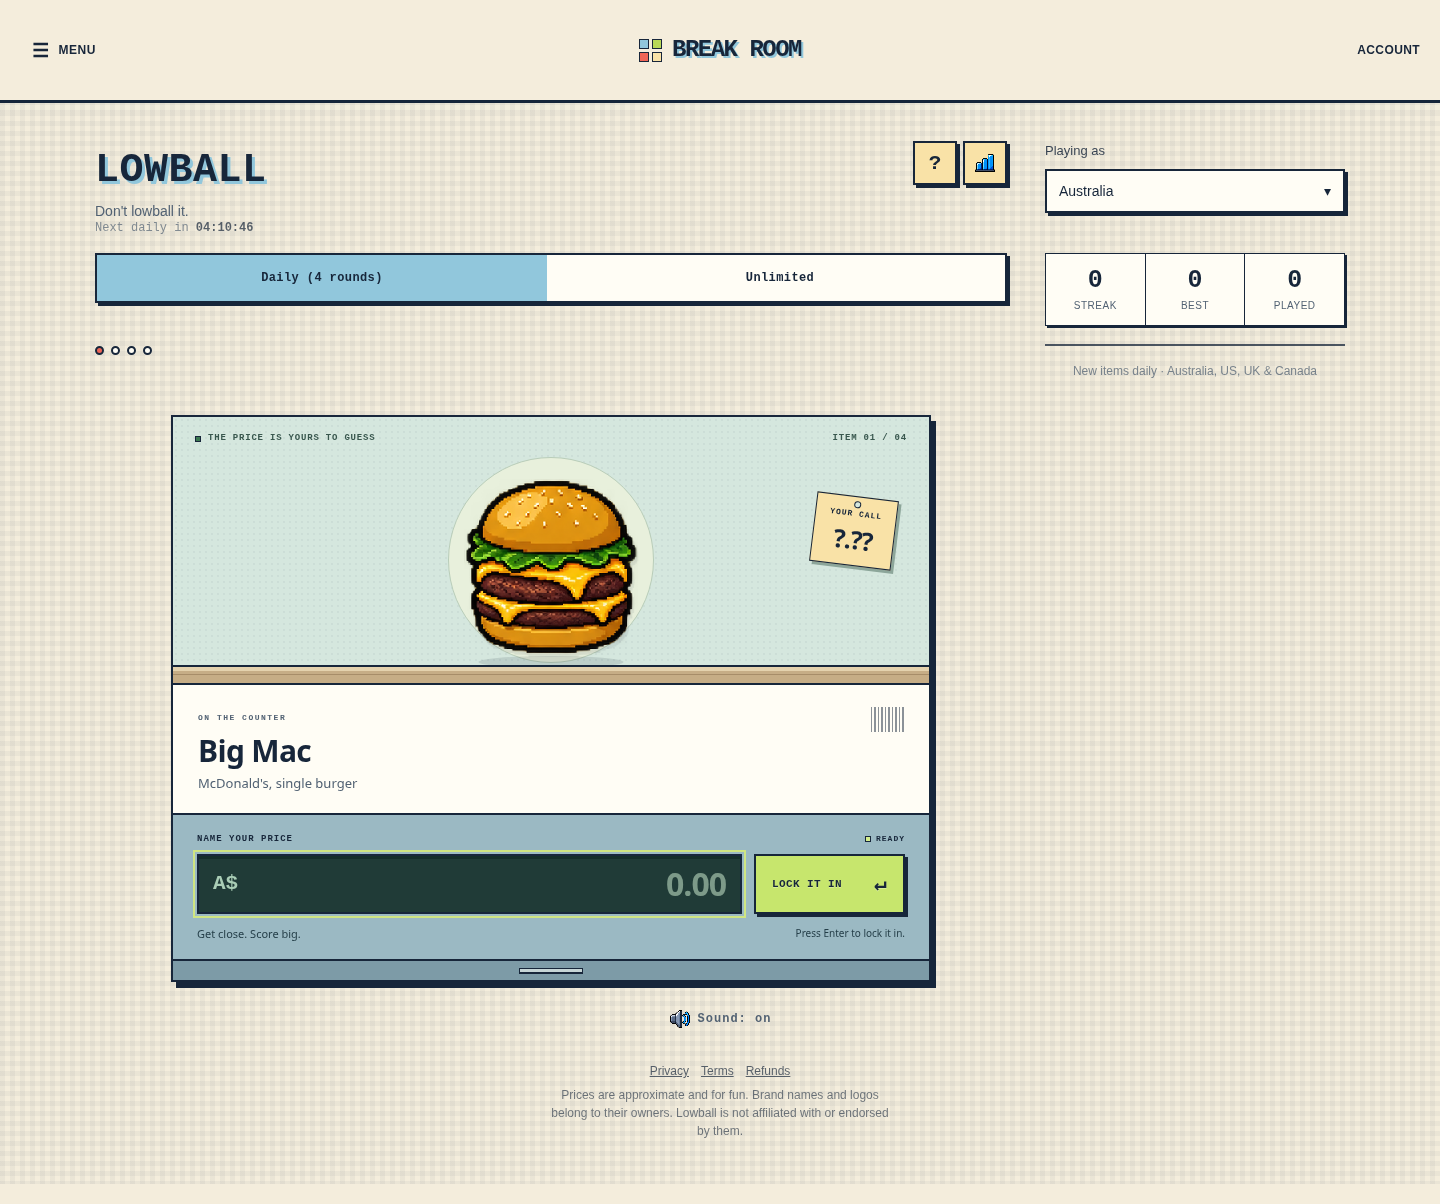
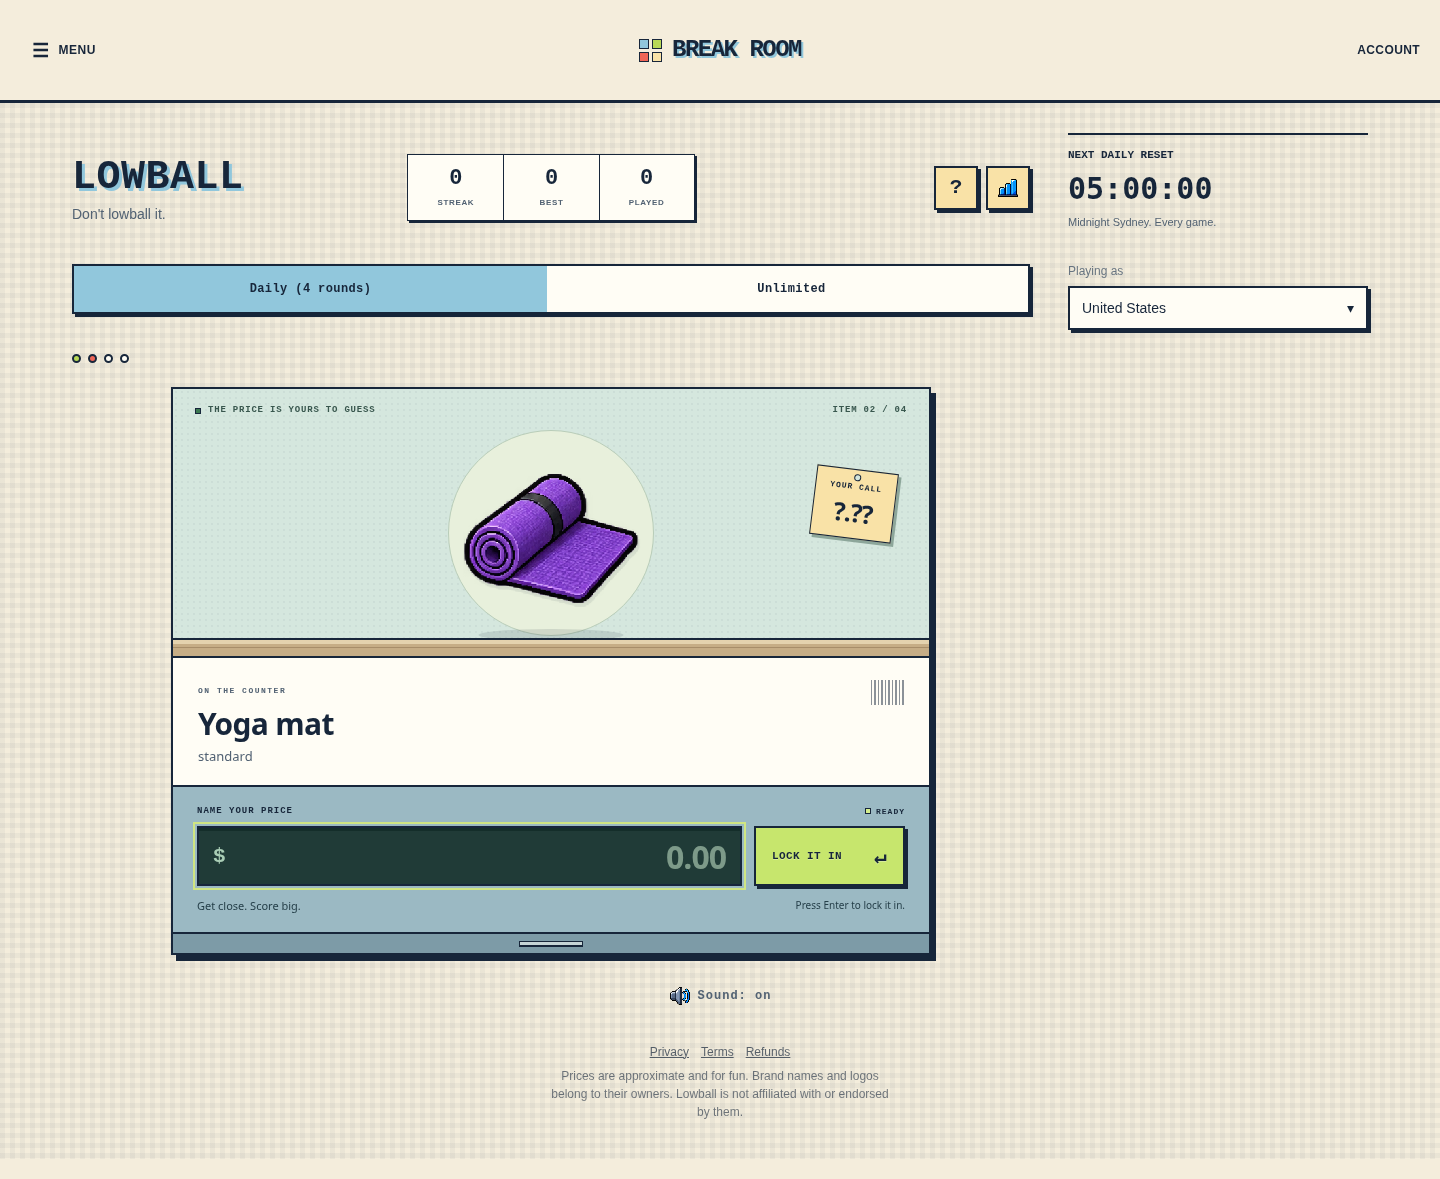
Align Lowball header and countdown with Stake and place region below reset

diff --git a/games/lowball/engine/counter.css b/games/lowball/engine/counter.css
@@ -23,3 +23,17 @@ body{padding-top:30px}.wrap{gap:18px 38px}.sub{font-size:14px}.mode-toggle{box-s
 .result.show,.final-screen.show{width:100%}
 .progress-dots .deck-count{font:700 10px/1.5 var(--label-font);letter-spacing:1px;color:#526273}
 #finalScreen .btn-gold,#finalScreen .btn-outline{display:block;width:100%;min-height:46px;margin:12px 0 0;padding:12px 16px;font:700 11px var(--label-font)}
+/* Match Stake: title / centred personal stats / tools, with reset and region on the right. */
+body{padding:30px 32px}.wrap{max-width:1296px;gap:22px 38px}
+header{display:grid;grid-template-columns:minmax(0,1fr) minmax(144px,30%) minmax(0,1fr);gap:12px;align-items:center;width:100%}
+.lowball-title-group{grid-column:1;grid-row:1;min-width:0}header h1{margin:0;line-height:1.2}.lowball-title-group .sub{margin-top:4px}
+header .head-btns{grid-column:3;grid-row:1;position:static;float:none;justify-self:end;display:flex;gap:8px}
+header .stat-strip{grid-column:2;grid-row:1;display:grid!important;grid-template-columns:repeat(3,minmax(0,1fr));align-self:center;gap:0;width:100%;margin:0;background:#fffdf5;border:1px solid #17263a;box-shadow:2px 2px #17263a}
+header .stat-strip .stat{padding:12px 4px;border:0;box-shadow:none;background:none;border-radius:0;min-width:0}header .stat-strip .stat+.stat{border-left:1px solid #17263a}header .stat-strip .stat b{font:900 22px/1.1 'Courier New',monospace}header .stat-strip .stat span{font:800 8px/1.4 Arial,sans-serif;text-transform:uppercase;letter-spacing:.08em;margin-top:5px}
+.live-reset{grid-column:2;grid-row:1;align-self:start;background:none;border:0;border-top:2px solid #17263a;box-shadow:none;padding:14px 0;font:800 11px 'Courier New',monospace;color:#17263a;text-align:left}
+.live-reset strong{display:block;font-family:ui-monospace,monospace;font-size:30px;font-weight:900;line-height:normal;letter-spacing:normal;margin:10px 0;color:#17263a}.live-reset p{font:11px Arial,sans-serif;color:#526273;margin:0}.live-reset .new-daily-ready{display:block;font:700 11px/1.6 Arial,sans-serif;text-decoration:underline;margin-top:10px}.live-reset .new-daily-ready[hidden]{display:none}.live-reset.ready{cursor:pointer}
+.country-row{grid-column:2;grid-row:2;flex-direction:column;align-items:stretch;justify-content:flex-start;gap:8px;margin:0;font:12px Arial,sans-serif;align-self:start}.country-label{color:#526273}.cselect-btn{font-size:14px;padding:12px}
+@media(min-width:651px) and (max-width:900px){.wrap{display:grid;grid-template-columns:minmax(0,1fr) 220px;gap:20px}.country-row{flex-direction:column;align-items:stretch}.lowball-title-group h1{font-size:30px}.lowball-title-group .sub{font-size:12px}}
+@media(max-width:900px){header .stat-strip .stat{padding:10px 3px}header .stat-strip .stat b{font-size:20px}header .stat-strip .stat span{font-size:7px;letter-spacing:.03em}}
+@media(max-width:650px){body{padding:24px 16px}.wrap{display:flex;gap:19px}header{order:0;grid-template-columns:minmax(0,1fr) 144px minmax(0,1fr);gap:8px}.lowball-title-group h1{font-size:21px}.lowball-title-group .sub{display:none}header .head-btns{gap:6px}header .icon-btn{width:36px;height:36px}header .stat-strip .stat b{font-size:19px}.mode-toggle{order:1}.progress-dots{order:2}.card{order:3}.live-reset{order:4;align-self:stretch;display:flex;flex-wrap:wrap;align-items:center;gap:4px 12px}.live-reset strong{display:inline-block;font-size:22px;margin:0}.live-reset p{flex-basis:100%;margin:5px 0 0}.live-reset .new-daily-ready{flex-basis:100%;margin-top:5px}.country-row{order:5;align-self:stretch;flex-direction:column;align-items:stretch;font-size:12px}.sound-btn{order:6}.legal-footer{order:7}}
+@media(max-width:360px){body{padding-left:12px;padding-right:12px}header{grid-template-columns:minmax(0,1fr) 124px minmax(0,1fr)}.lowball-title-group h1{font-size:17px}header .icon-btn{width:32px;height:34px;font-size:17px}header .head-btns{gap:4px}header .stat-strip .stat{padding:9px 2px}header .stat-strip .stat b{font-size:18px}header .stat-strip .stat span{font-size:6px}}

diff --git a/games/lowball/engine/index.html b/games/lowball/engine/index.html
@@ -595,19 +595,25 @@
 <body>
 <div class="wrap">
   <header>
+    <div class="lowball-title-group"><h1>LOWBALL</h1><div class="sub">Don't lowball it.</div></div>
+  <div class="stat-strip" id="statStrip">
+    <div class="stat"><b id="streakVal">0</b><span>Streak</span></div>
+    <div class="stat"><b id="bestVal">0</b><span>Best</span></div>
+    <div class="stat"><b id="playedVal">0</b><span>Played</span></div>
+  </div>
     <div class="head-btns">
       <button type="button" class="icon-btn" id="helpBtn" aria-label="How to play">?</button>
       <button type="button" class="icon-btn" id="statsBtn" aria-label="Your stats"><span id="statsArt"></span></button>
     </div>
-    <h1>LOWBALL</h1>
-    <div class="sub">Don't lowball it.</div>
-    <div class="next-daily" id="nextDaily">Next daily in --:--:--</div>
+
   </header>
 
   <div class="mode-toggle">
     <button class="mode-btn active" id="normalModeBtn">Daily<span class="rounds"> (4 rounds)</span></button>
     <button class="mode-btn" id="unlimitedModeBtn">Unlimited</button>
   </div>
+
+  <aside class="live-reset" id="nextDaily" aria-label="Daily reset">NEXT DAILY RESET<strong data-daily-countdown>--:--:--</strong><p>Midnight Sydney. Every game.</p><span class="new-daily-ready" hidden>New daily ready. Tap to play</span></aside>
 
   <div class="country-row">
     <span class="country-label">Playing as</span>
@@ -618,12 +624,7 @@
     <select id="countrySelect" hidden></select>
   </div>
 
-  <div class="stat-strip" id="statStrip">
-    <div class="stat"><b id="streakVal">0</b><span>Streak</span></div>
-    <div class="stat"><b id="bestVal">0</b><span>Best</span></div>
-    <div class="stat"><b id="playedVal">0</b><span>Played</span></div>
-  </div>
-  <footer class="tagline">New items daily &middot; Australia, US, UK &amp; Canada</footer>
+
 
   <div class="progress-dots" id="progressDots"></div>
 
@@ -1491,11 +1492,12 @@ function tickNextDaily() {
       el.classList.add("ready");
       el.setAttribute("role", "button");
       el.tabIndex = 0;
-      el.textContent = "New daily ready. Tap to play";
+      el.setAttribute("aria-label", "New daily ready. Tap to play");
+      el.querySelector(".new-daily-ready").hidden = false;
     }
     return;
   }
-  el.innerHTML = "Next daily in <b>" + window.MIDNIGHT_ARCADE_CLOCK.countdown() + "</b>";
+  el.querySelector("[data-daily-countdown]").textContent = window.MIDNIGHT_ARCADE_CLOCK.countdown();
 }
 document.getElementById("nextDaily").addEventListener("click", function () { if (this.classList.contains("ready")) location.reload(); });
 document.getElementById("nextDaily").addEventListener("keydown", function (e) { if ((e.key === "Enter" || e.key === " ") && this.classList.contains("ready")) { e.preventDefault(); location.reload(); } });

diff --git a/games/lowball/index.html b/games/lowball/index.html
@@ -8,10 +8,10 @@
 <link rel="icon" type="image/svg+xml" href="../../assets/break-room-icon.svg">
 <link rel="stylesheet" href="../../styles.css"><link rel="stylesheet" href="../../game-flow.css">
 <style>
-.lowball-main{position:relative;z-index:30;padding:8px 0 20px;min-height:calc(100vh - 110px);background:#100a2e}
+.lowball-main{position:relative;z-index:30;padding:0 0 20px;min-height:calc(100vh - 110px);background:#100a2e}
 .lowball-shell{width:100%;max-width:none;margin:0 auto}
 .lowball-frame{display:block;width:100%;height:1180px;border:0;background:#100a2e;box-shadow:none;overflow:hidden}
-@media(max-width:600px){.lowball-main{padding:2px 0 12px}.lowball-frame{height:1420px}}
+@media(max-width:600px){.lowball-main{padding:0 0 12px}.lowball-frame{height:1420px}}
 </style>
 <script defer src="../../navigation.js"></script><script defer src="frame.js"></script><script src="../../daily-clock.js"></script><link rel="stylesheet" href="../../break-room.css"></head>
 <body>

diff --git a/README.md b/README.md
@@ -109,7 +109,7 @@ Run `ARCADE_TEST_URL=http://127.0.0.1:8015 node tests/lowball-art.cjs` against a
 
 ### Lowball counter and Stake tabletop
 
-Lowball's active playing surface is styled by `games/lowball/engine/counter.css`: a large item display on a shop shelf, printed product label, cash-register price input, and a receipt reveal with a stamped verdict and perforated paper edge. Existing generated PNGs, prices, regions, score calculations, and saved rounds are retained. Mobile prioritises the counter, with quick stats below. Enter submits a price and focuses Next; Enter again moves to the next item without skipping the receipt.
+Lowball's active playing surface is styled by `games/lowball/engine/counter.css`: a large item display on a shop shelf, printed product label, cash-register price input, and a receipt reveal with a stamped verdict and perforated paper edge. Existing generated PNGs, prices, regions, score calculations, and saved rounds are retained. Personal stats sit in the header between the title and utility buttons. The countdown matches Stake, with the region selector below it in the right sidebar (below the game on mobile). Enter submits a price and focuses Next; Enter again moves to the next item without skipping the receipt.
 
 Stake's active surface is styled by `games/stake/table.css`: textured green felt with a stitched edge, paper question cards and category tabs, a three-chip betting dock, and chip-stack feedback. The countdown is integrated into the question card and turns coral in the last ten seconds. The score tally, 30-second deadline, timeout penalties, Daily/Unlimited state, and shared popup design remain intact. Chips stay circular at every screen width. Keyboard betting/answering retains focus inside the game, and the mode tabs support arrow keys, Home, and End.
 

diff --git a/VALIDATION.md b/VALIDATION.md
@@ -99,3 +99,7 @@ This update replaces the preceding code-drawn SVG illustrations with actual gene
 ### Lowball gem restoration — 19 October 2026
 
 Restored the exact cut-corner, softly coloured faceted gems from the initial Break Room visual refresh. Round and final scores share the restored renderer; the glossy square PNGs are no longer mapped into the game. `tests/lowball-art.cjs` passed for all four gem tiers on both round and final screens, all 100 item PNGs, the five remaining active utility PNGs, sound settings, and four responsive widths. Updated mobile receipt/final previews show the restored gems.
+
+### Lowball header and reset alignment — 19 October 2026
+
+Moved Lowball's personal stats into the title/tools header row. Matched Stake's countdown wording, styles, shared clock, and desktop/tablet screen coordinates; moved the region selector below it; removed the country-list tagline and its rule. Preserved the midnight-ready reload action. Direct browser checks passed at 320/390/768/1440px for centring, no overlaps/overflow, countdown style parity, region changes, and submitting a guess. `tests/smoke.cjs` passed all 532 assertions. `tests/homepage-reset.cjs` passed responsive and midnight rollover/stale-submission checks in UTC, Los Angeles, Tokyo and Sydney. Updated mobile and desktop Lowball previews are in `design/previews/game-polish/`.
